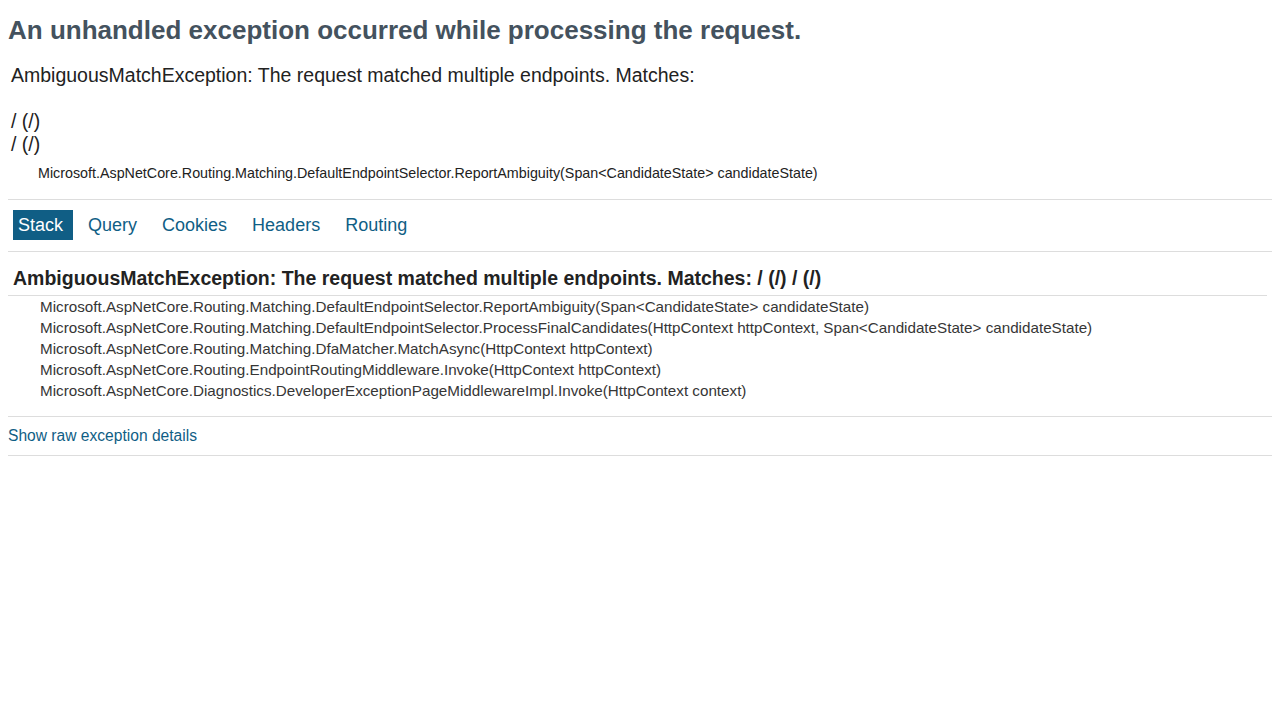
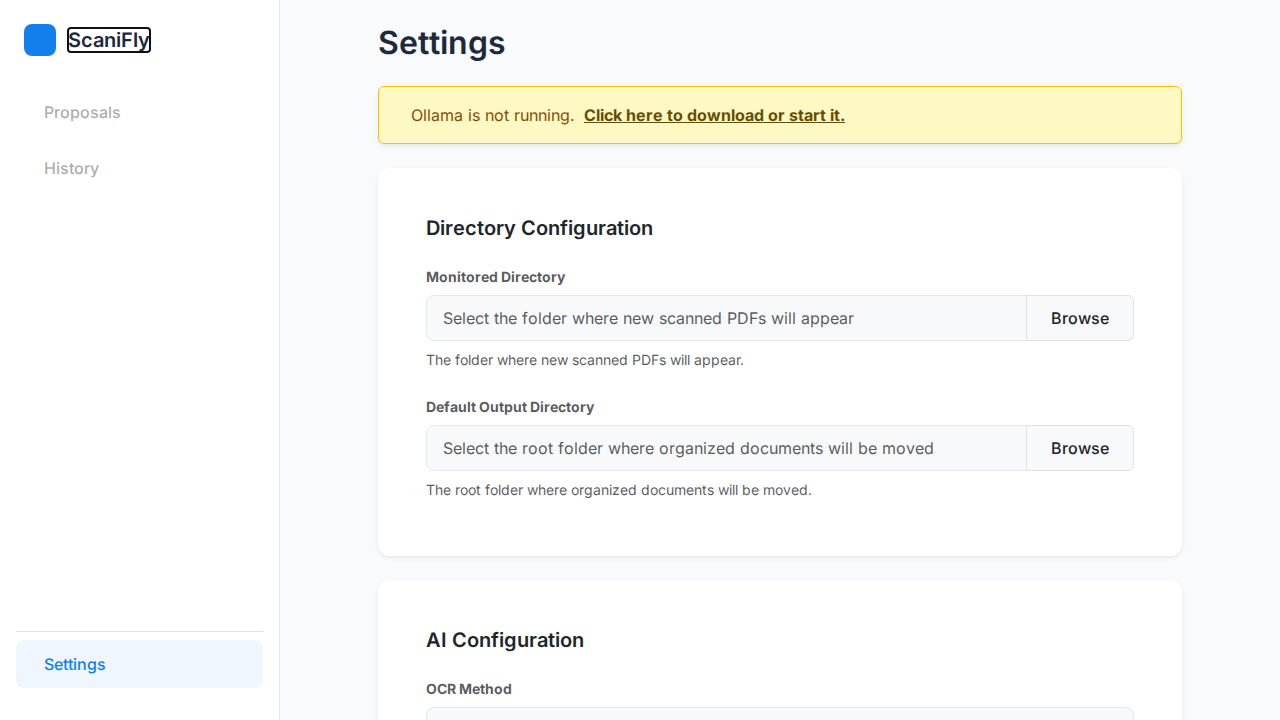
fix: resolve ambiguous route on root path by removing redundant Home.razor

diff --git a/README.md b/README.md
@@ -20,8 +20,7 @@ ScaniFly is an open-source, AI-powered desktop application designed to automatic
 Visit the [GitHub Releases](https://github.com/YOUR_ORG/ScaniFly/releases/latest) page to download the latest installer for Windows (`.exe`) or macOS (`.dmg`).
 
 ## Screenshots
-<img src="https://raw.githubusercontent.com/intv0id/ScaniFly/f66c63cee16f91fb69eb35319e8279f80f5e2302/docs/settings.png" width="400"/>
-<img src="https://raw.githubusercontent.com/intv0id/ScaniFly/f66c63cee16f91fb69eb35319e8279f80f5e2302/docs/proposals.png" width="400"/>
+<!-- SCREENSHOT_PLACEHOLDER -->
 
 ## License
 MIT
